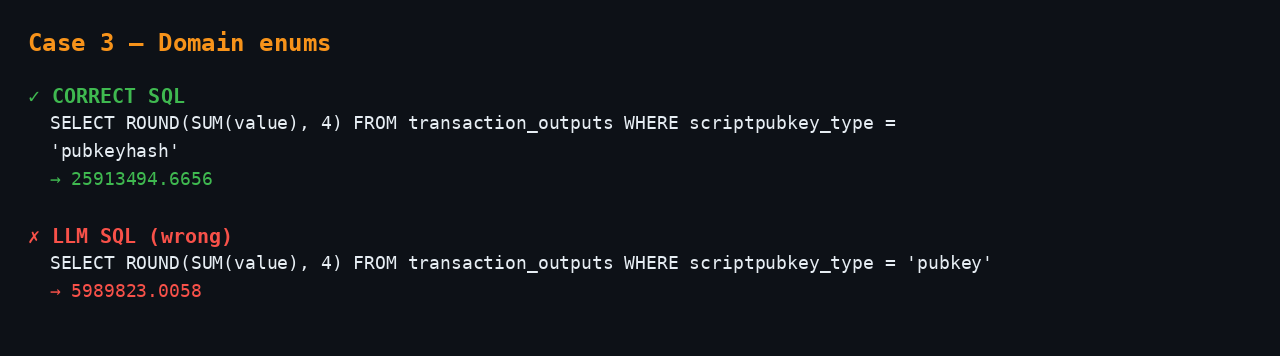
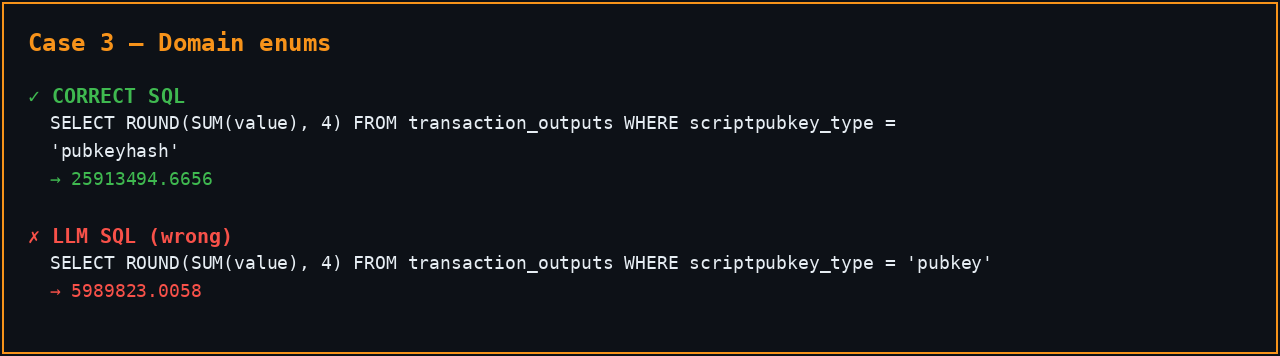
fixes and modifications

Changed region(s): [[0.0, 0.9888, 1.0, 1.0], [0.0, 0.0, 1.0, 0.0309]]

diff --git a/Text-to-SQL/scripts/build_hard_failures_ppt.py b/Text-to-SQL/scripts/build_hard_failures_ppt.py
@@ -11,7 +11,7 @@ from pathlib import Path
 from PIL import Image, ImageDraw, ImageFont
 from pptx import Presentation
 from pptx.dml.color import RGBColor
-from pptx.enum.text import PP_ALIGN
+from pptx.enum.shapes import MSO_SHAPE
 from pptx.util import Inches, Pt
 
 ROOT = Path(__file__).resolve().parent.parent
@@ -29,7 +29,11 @@ ORANGE = (247, 147, 26)
 TEXT = (230, 237, 243)
 MUTED = (139, 148, 158)
 
-
+RGB_BG = RGBColor(*BG)
+RGB_PANEL = RGBColor(*PANEL)
+RGB_TEXT = RGBColor(*TEXT)
+RGB_MUTED = RGBColor(*MUTED)
+RGB_ORANGE = RGBColor(*ORANGE)
 def _font(size: int, bold: bool = False) -> ImageFont.FreeTypeFont | ImageFont.ImageFont:
     candidates = [
         "/usr/share/fonts/truetype/dejavu/DejaVuSansMono-Bold.ttf"
@@ -98,8 +102,51 @@ def render_terminal_image(
         draw.text((pad, y), line, fill=color, font=f)
         y += line_h
 
+    # Subtle border so screenshots read clearly on dark slides
+    draw.rectangle(
+        [(2, 2), (width - 3, height - 3)],
+        outline=ORANGE,
+        width=2,
+    )
+
     path.parent.mkdir(parents=True, exist_ok=True)
     img.save(path)
+
+
+def _new_dark_slide(prs: Presentation):
+    """Blank slide with GitHub-dark background and orange top accent."""
+    slide = prs.slides.add_slide(prs.slide_layouts[6])
+    fill = slide.background.fill
+    fill.solid()
+    fill.fore_color.rgb = RGB_BG
+
+    accent = slide.shapes.add_shape(
+        MSO_SHAPE.RECTANGLE, 0, 0, prs.slide_width, Inches(0.08)
+    )
+    accent.fill.solid()
+    accent.fill.fore_color.rgb = RGB_ORANGE
+    accent.line.fill.background()
+    return slide
+
+
+def _add_panel(
+    slide,
+    left: float,
+    top: float,
+    width: float,
+    height: float,
+) -> None:
+    panel = slide.shapes.add_shape(
+        MSO_SHAPE.ROUNDED_RECTANGLE,
+        Inches(left),
+        Inches(top),
+        Inches(width),
+        Inches(height),
+    )
+    panel.fill.solid()
+    panel.fill.fore_color.rgb = RGB_PANEL
+    panel.line.color.rgb = RGBColor(48, 54, 61)
+    panel.line.width = Pt(1)
 
 
 CASE_META = [
@@ -140,32 +187,34 @@ def build_images(cases: list[dict]) -> list[Path]:
 
 
 def _add_title_slide(prs: Presentation) -> None:
-    slide = prs.slides.add_slide(prs.slide_layouts[6])
-    box = slide.shapes.add_textbox(Inches(0.7), Inches(1.4), Inches(8.6), Inches(4))
+    slide = _new_dark_slide(prs)
+    _add_panel(slide, 0.55, 1.15, 8.9, 4.6)
+
+    box = slide.shapes.add_textbox(Inches(0.85), Inches(1.45), Inches(8.3), Inches(4))
     tf = box.text_frame
     tf.word_wrap = True
 
     p = tf.paragraphs[0]
     p.text = "When Text-to-SQL Fails"
-    p.font.size = Pt(40)
+    p.font.size = Pt(44)
     p.font.bold = True
-    p.font.color.rgb = RGBColor(230, 237, 243)
+    p.font.color.rgb = RGB_TEXT
 
     for text, size, color in [
-        ("INFO7500 · Homework 3 · Block Explorer AI", 20, RGBColor(247, 147, 26)),
+        ("INFO7500 · Homework 3 · Block Explorer AI", 22, RGB_ORANGE),
         (
             "Three hard cases where incorrect SQL still returns a plausible wrong answer",
             18,
-            RGBColor(139, 148, 158),
+            RGB_MUTED,
         ),
-        ("Reference: Spider 2.0 Text-to-SQL leaderboard", 14, RGBColor(139, 148, 158)),
-        ("Data: tests/hard_failures.json", 14, RGBColor(139, 148, 158)),
+        ("Reference: Spider 2.0 Text-to-SQL leaderboard", 15, RGB_MUTED),
+        ("Data: tests/hard_failures.json", 15, RGB_MUTED),
     ]:
         para = tf.add_paragraph()
         para.text = text
         para.font.size = Pt(size)
         para.font.color.rgb = color
-        para.space_before = Pt(12)
+        para.space_before = Pt(14)
 
 
 def _add_case_slide(
@@ -176,42 +225,47 @@ def _add_case_slide(
     why: str,
     image_path: Path,
 ) -> None:
-    slide = prs.slides.add_slide(prs.slide_layouts[6])
+    slide = _new_dark_slide(prs)
 
-    title = slide.shapes.add_textbox(Inches(0.5), Inches(0.25), Inches(9), Inches(0.6))
+    title = slide.shapes.add_textbox(Inches(0.5), Inches(0.22), Inches(9), Inches(0.55))
     tp = title.text_frame.paragraphs[0]
     tp.text = heading
-    tp.font.size = Pt(28)
+    tp.font.size = Pt(30)
     tp.font.bold = True
-    tp.font.color.rgb = RGBColor(247, 147, 26)
+    tp.font.color.rgb = RGB_ORANGE
 
-    qbox = slide.shapes.add_textbox(Inches(0.5), Inches(0.85), Inches(9), Inches(0.7))
+    _add_panel(slide, 0.45, 0.78, 9.1, 0.72)
+    qbox = slide.shapes.add_textbox(Inches(0.65), Inches(0.92), Inches(8.7), Inches(0.55))
     qp = qbox.text_frame.paragraphs[0]
     qp.text = f"Question: {question}"
-    qp.font.size = Pt(16)
+    qp.font.size = Pt(17)
     qp.font.bold = True
-    qp.font.color.rgb = RGBColor(230, 237, 243)
+    qp.font.color.rgb = RGB_TEXT
 
-    slide.shapes.add_picture(str(image_path), Inches(0.35), Inches(1.55), width=Inches(9.3))
+    slide.shapes.add_picture(str(image_path), Inches(0.35), Inches(1.62), width=Inches(9.3))
 
-    wbox = slide.shapes.add_textbox(Inches(0.5), Inches(5.15), Inches(9), Inches(0.8))
+    _add_panel(slide, 0.45, 5.05, 9.1, 0.95)
+    wbox = slide.shapes.add_textbox(Inches(0.65), Inches(5.2), Inches(8.7), Inches(0.75))
     wp = wbox.text_frame.paragraphs[0]
     wp.text = f"Why it's hard: {why}"
-    wp.font.size = Pt(14)
-    wp.font.color.rgb = RGBColor(139, 148, 158)
+    wp.font.size = Pt(15)
+    wp.font.color.rgb = RGB_MUTED
+    wp.font.bold = False
 
 
 def _add_takeaway_slide(prs: Presentation) -> None:
-    slide = prs.slides.add_slide(prs.slide_layouts[6])
-    box = slide.shapes.add_textbox(Inches(0.8), Inches(1.0), Inches(8.4), Inches(4.5))
+    slide = _new_dark_slide(prs)
+    _add_panel(slide, 0.55, 0.85, 8.9, 5.5)
+
+    box = slide.shapes.add_textbox(Inches(0.85), Inches(1.1), Inches(8.3), Inches(5))
     tf = box.text_frame
     tf.word_wrap = True
 
     p = tf.paragraphs[0]
     p.text = "Takeaway"
-    p.font.size = Pt(36)
+    p.font.size = Pt(38)
     p.font.bold = True
-    p.font.color.rgb = RGBColor(230, 237, 243)
+    p.font.color.rgb = RGB_ORANGE
 
     bullets = [
         "Schema in context is not enough for free LLMs",
@@ -222,11 +276,11 @@ def _add_takeaway_slide(prs: Presentation) -> None:
     ]
     for bullet in bullets:
         para = tf.add_paragraph()
-        para.text = bullet
+        para.text = f"• {bullet}"
         para.level = 0
-        para.font.size = Pt(20)
-        para.font.color.rgb = RGBColor(201, 209, 217)
-        para.space_before = Pt(10)
+        para.font.size = Pt(21)
+        para.font.color.rgb = RGB_TEXT
+        para.space_before = Pt(12)
 
 
 def build_ppt(cases: list[dict], image_paths: list[Path], out_path: Path) -> None: